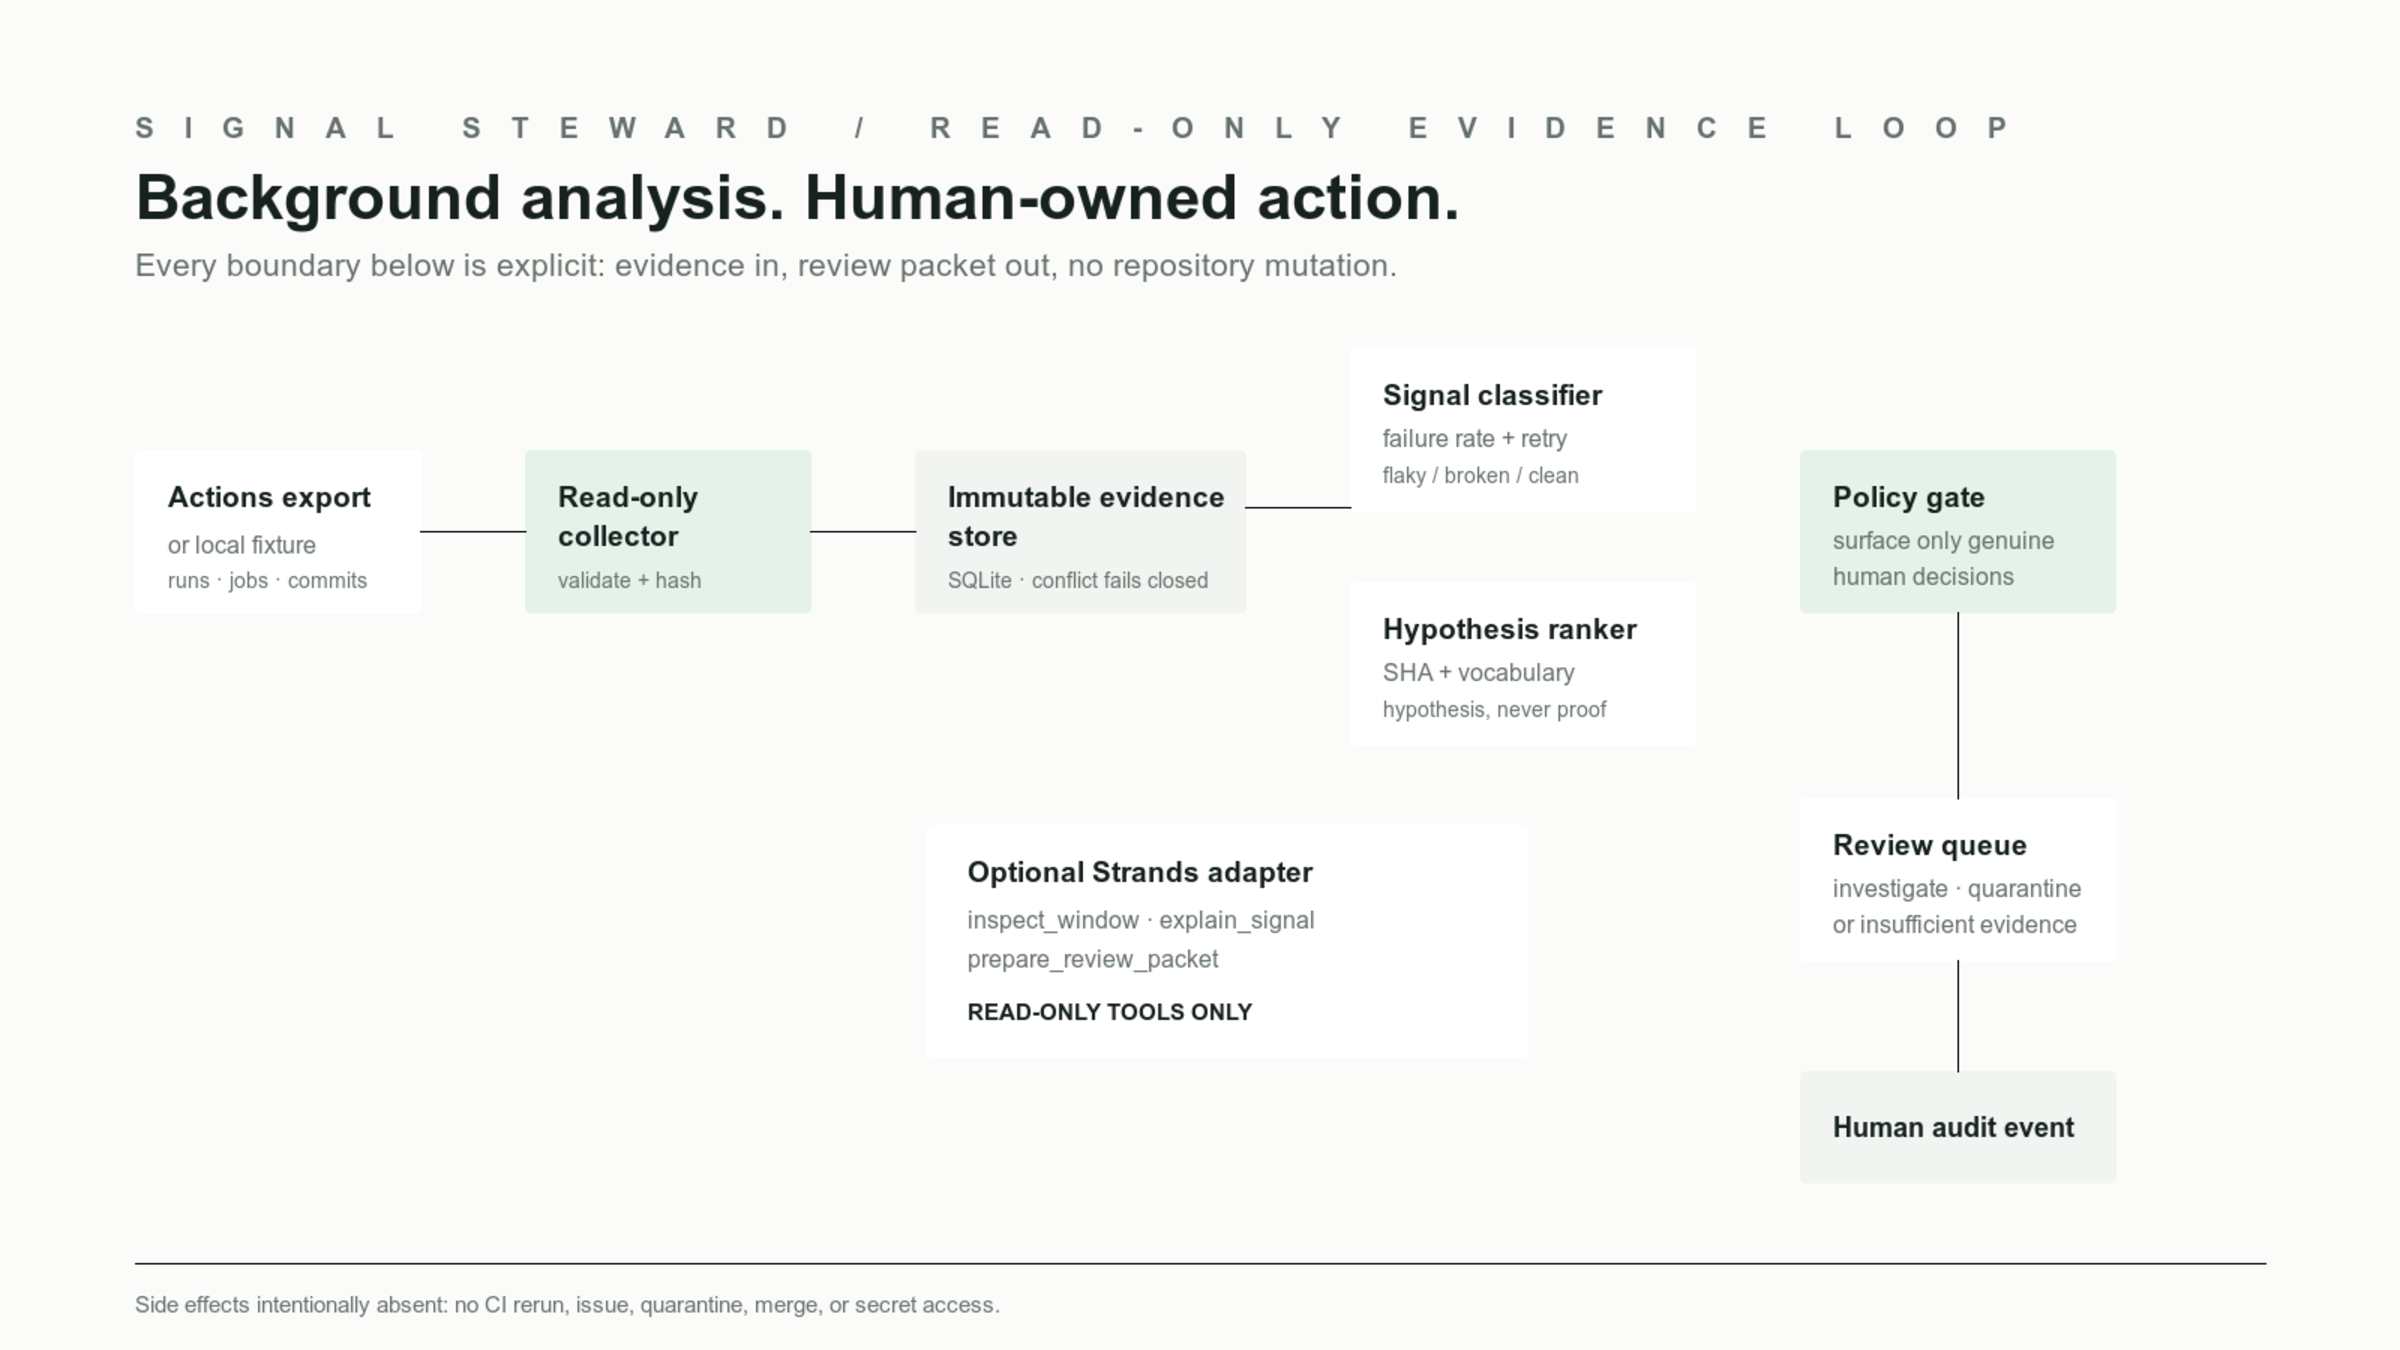
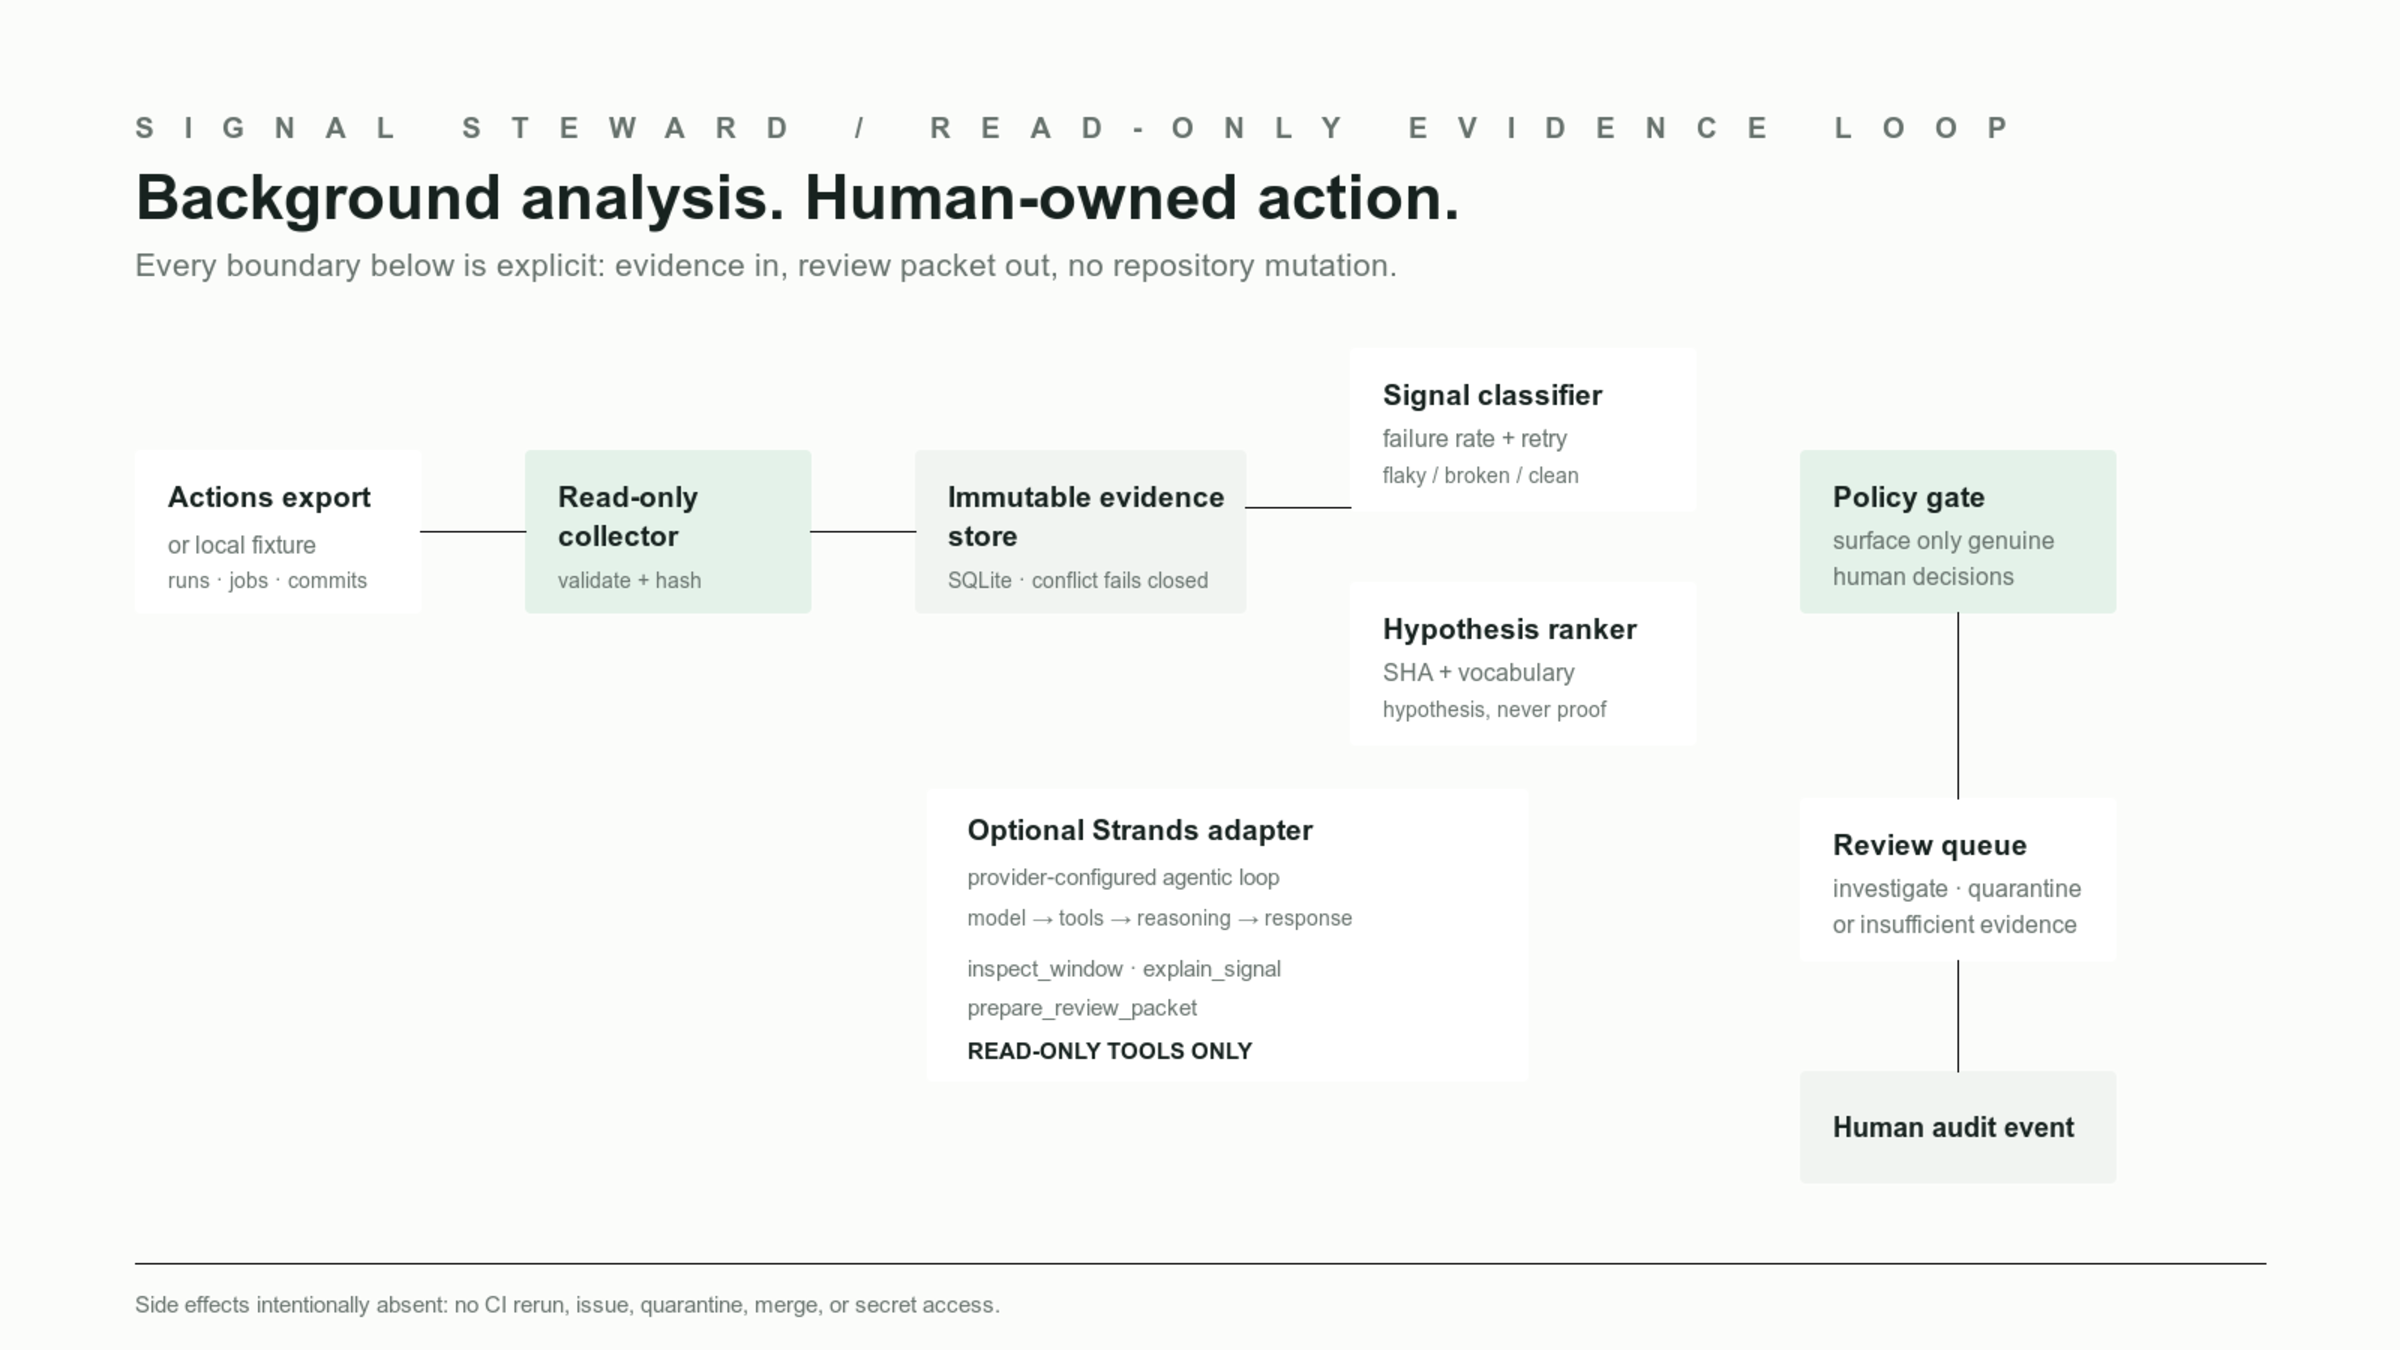
docs: show optional Strands agentic loop

Changed region(s): [[0.4062, 0.5911, 0.5625, 0.8089]]

diff --git a/tests/test_submission_docs.py b/tests/test_submission_docs.py
@@ -59,10 +59,16 @@ def test_judge_materials_keep_referenced_artifacts_and_demo_budget() -> None:
     assert "asks a Strands agent" not in architecture
     assert "optional provider-configured Strands adapter" in architecture_diagram
     assert "Optional Strands adapter" in architecture_diagram
+    assert "model → tools → reasoning → response" in architecture
+    assert "model → tools → reasoning → response" in architecture_diagram
     assert "The evaluated Signal Steward classifier" in results
     assert "the evaluated Signal Steward ranker" in results
     assert "production classifier" not in results
     assert "production ranker" not in results
+    assert "model → tools → reasoning → response" in architecture
+    assert "model → tools → reasoning → response" in architecture_diagram
+    assert "model → tools → reasoning → response" in draft
+    assert "model → tools → reasoning → response" in demo
 
 
 def test_release_receipt_preserves_a_recheckable_two_sha_boundary() -> None:

diff --git a/docs/DEVPOST_DRAFT.md b/docs/DEVPOST_DRAFT.md
@@ -85,7 +85,7 @@ deployment is being claimed. The bounded trust and side-effect analysis is in
 
 | Official criterion | Evidence to show | Honest framing |
 | --- | --- | --- |
-| Technical Implementation | `signal_steward/agent.py`, visible SDK contract, immutable store, deterministic classifier, benchmark commands, [`RELEASE_RECEIPT.md`](RELEASE_RECEIPT.md), and [`signal-steward-threat-model.md`](../signal-steward-threat-model.md) | Strands is a real adapter and its tools are read-only; the release receipt records the loopback and input-size boundaries; no live provider or AgentCore deployment is claimed. |
+| Technical Implementation | `signal_steward/agent.py`, visible SDK contract and optional provider-configured agentic loop (model → tools → reasoning → response), immutable store, deterministic classifier, benchmark commands, [`RELEASE_RECEIPT.md`](RELEASE_RECEIPT.md), and [`signal-steward-threat-model.md`](../signal-steward-threat-model.md) | Strands is a real adapter and its tools are read-only; the release receipt records the loopback and input-size boundaries; no live provider or AgentCore deployment is claimed. |
 | Design | Minimal review queue, three distinct evidence states, responsive browser UI, hold/approve audit event | The interface is a decision desk, not a chat transcript or autonomous mutation console. |
 | Potential Impact | Maintainer workflow, TUM industrial flaky-test evidence, `RESULTS.md` review-load measurement | The likely value is attention recovered in long/noisy CI workflows; production impact remains to be measured. |
 | Creativity & Originality | Provenance packet + same-SHA recovery + hypothesis threshold + negative-control stop condition | The wedge is evidence quality and calibrated human gating, not “AI explains a build.” |

diff --git a/docs/demo-script.md b/docs/demo-script.md
@@ -26,7 +26,7 @@ three read-only tools; the local walkthrough does not require AWS credentials.
 | 2:10–2:50 | The stop condition | Open `CI / ambiguous`. There is a failure, but no captured test output or matching commit, so the system refuses to invent a culprit and surfaces `INSUFFICIENT EVIDENCE`. |
 | 2:50–3:35 | Human boundary | On `CI / integration`, choose `Hold for more evidence`, add a rationale, and record it. The card changes state and the ledger shows the decision. |
 | 3:35–4:20 | Evidence, not theatre | Show `RESULTS.md`: holdout macro-F1 1.00, culprit top-1 1.00, false escalation 0.00, and 54.55% review reduction on the synthetic labelled fixture. Point out the uncertainty: 24/24 culprit hits have a Wilson 95% interval of `[0.862, 1.000]`, while 0/24 false escalations have `[0.000, 0.138]`; these are descriptive bounds on a fixed synthetic sample, not production accuracy or a proven safety target. Then flash [`PUBLIC_CASES.md`](PUBLIC_CASES.md): one public same-SHA retry maps to a flaky signal, while one public lone failure stays `INSUFFICIENT_EVIDENCE`. |
-| 4:20–4:50 | Architecture and limits | Point to the visible Strands contract (version + three read-only tools), then show `docs/architecture.md` and `RESEARCH.md`. Close with: “It prepares a review packet; a person still owns the consequential action.” |
+| 4:20–4:50 | Architecture and limits | Point to the visible Strands contract (version + optional provider-configured model → tools → reasoning → response loop + three read-only tools), then show `docs/architecture.md` and `RESEARCH.md`. Close with: “It prepares a review packet; a person still owns the consequential action.” |
 
 ## Reset between takes
 

diff --git a/docs/architecture.md b/docs/architecture.md
@@ -1,6 +1,6 @@
 # Signal Steward architecture
 
-Signal Steward is a read-only CI evidence steward. A scheduled collector or local replay supplies GitHub Actions-shaped events. The application normalizes them into immutable evidence, applies a deterministic signal policy, and presents a small human review queue. It also exposes an optional Strands agent adapter that can inspect only those read-only tools when the operator supplies a model provider; the credential-free local replay does not invoke a model.
+Signal Steward is a read-only CI evidence steward. A scheduled collector or local replay supplies GitHub Actions-shaped events. The application normalizes them into immutable evidence, applies a deterministic signal policy, and presents a small human review queue. It also exposes an optional Strands agent adapter with a provider-configured agentic loop (model → tools → reasoning → response) that can inspect only those read-only tools; the credential-free local replay does not invoke a model.
 
 ```mermaid
 flowchart LR
@@ -12,7 +12,7 @@ flowchart LR
   E --> F
   F --> G[Review queue: investigate / quarantine candidate / insufficient evidence]
   G --> H[Human decision audit event]
-  C -. read-only tools .-> I[Optional Strands Agent]
+  C -. read-only evidence packet .-> I[Optional Strands Agent<br/>model → tools → reasoning → response]
   I -. evidence packet only .-> F
 ```
 
